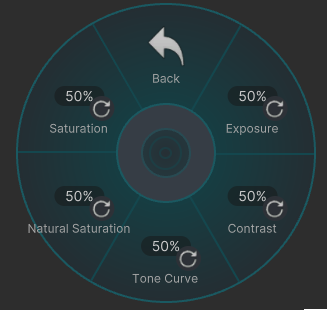
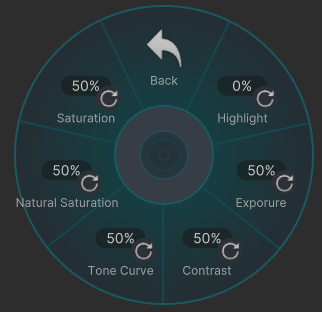
260715update

diff --git a/docs/menu/M.md b/docs/menu/M.md
@@ -42,19 +42,6 @@ FOVの設定範囲は **12mm ～ 1000mm** 相当です。
 
 ### 共通設定
 
-#### Color Correction
-各カメラで画像補正ができます。  
-![](images/Lens_CC.png)
-
-- **Exposure** : 露出
-- **Contrast** : コントラスト
-- **Tone Curve** : トーンカーブ
-- **Natural Saturation** : 自然な彩度
-- **Saturation** : 彩度
-
-<BR>
-
-
 #### AutoLevel
 
 ![](images/AutoLevel.png)
@@ -79,31 +66,6 @@ FOVの設定範囲は **12mm ～ 1000mm** 相当です。
 ---
 
 ### Fore
-
-#### LayerBlend
-前景の合成モードを選択できます。
-
-![](images/Lens_Fore_Layer.png)
-
-- **None** ：前景を描画しません
-- **Add** ：加算
-- **Dodge** ：覆い焼きカラー
-- **Normal** ：通常合成
-- **Screen** ：スクリーン
-- **Multiply** ：乗算
-
-- **Alpha** ：前景の透明度を変更できます
-
-##### 補足
-
-- **Normal以外** を選択した場合  
-メインカメラの Far は Fore カメラの Far と同じになります。
-- **Normal** 選択時は、透明度の変更はされません(100%固定)。
-- **Normal** 選択時は、  
-Depth がある部分では前景が通常合成されます。  
-Depth がない部分は Screen 合成として扱われます。
-
-<BR>
 
 #### clip Adjust
 
@@ -164,11 +126,23 @@ Back カメラの Far の位置を、手前側に微調整できます。
 ![](images/Lens_ForcusRange.png)
 
 フォーカス距離を、一定の距離から選択できます。  
-フォーカス範囲は **約 1.5m** になります。
+フォーカス範囲は **約 1.5m** になります。  
+選択後の細かい調整は [Focus](#focus)で合わせます。
 
-### AutoFocus
-VRC Raycastを使用して、カメラの中心部分にある **コライダー** にフォーカスを合わせます。  
-VRChatの仕様により、自身かワールドのコライダーにしか反応しません。
+### Auto Focus
 
-- AF_DoF では、AutoFocusのフォーカス範囲を調整できます。  
-  値を大きくするとピントの合う範囲が広くなります。
+![](images/Lens_AutoFocus.png)
+
+AutoFocusを選択すると、利き手と逆の手に**ピンク色の球**が表示されます。  
+AutoFocus中は、この球とカメラの距離がフォーカス距離となります。  
+  
+- **AutoFocus Range** で、AutoFocus中のフォーカス範囲を調整できます。  
+値を大きくするとピントの合う範囲が広くなります。
+- **Look at AF** で、カメラが常にピンク級の方を向きます。
+- **AutoFocus Drone** で、ピンク球をドローンのように  
+好きな場所に移動させれます。
+- **AutoFocus worldFix**で、好きな場所にピンク球を置いたり  
+手元に引き寄せたり出来ます。
+  
+動かし方はカメラのドローンとほぼ同じです。  
+回転機能はありません。

diff --git a/docs/menu/P.md b/docs/menu/P.md
@@ -65,12 +65,23 @@ ForeとBackのボケの強さを変更できます。
 ![](images/Lens_ForcusRange.png)
 
 フォーカス距離を、一定の距離から選択できます。  
-フォーカス範囲は **約 1.5m** になります。
+フォーカス範囲は **約 1.5m** になります。  
+選択後の細かい調整は [Focus](#focus)で合わせます。
 
-### AutoFocus
-VRC Raycastを使用して  
-カメラの中心部分にある **コライダー** にフォーカスを合わせます。  
-VRChatの仕様により、自身かワールドのコライダーにしか反応しません。
+### Auto Focus
 
-- AF_DoF では、AutoFocusのフォーカス範囲を調整できます。  
+![](images/Lens_AutoFocus.png)
+
+AutoFocusを選択すると、利き手と逆の手に**ピンク色の球**が表示されます。  
+AutoFocus中は、この球とカメラの距離がフォーカス距離となります。  
+  
+- **AutoFocus Range** で、AutoFocus中のフォーカス範囲を調整できます。  
 値を大きくするとピントの合う範囲が広くなります。
+- **Look at AF** で、カメラが常にピンク級の方を向きます。
+- **AutoFocus Drone** で、ピンク球をドローンのように  
+好きな場所に移動させれます。
+- **AutoFocus worldFix**で、好きな場所にピンク球を置いたり  
+手元に引き寄せたり出来ます。
+  
+動かし方はカメラのドローンとほぼ同じです。  
+回転機能はありません。

diff --git a/docs/menu/Effects.md b/docs/menu/Effects.md
@@ -1,0 +1,51 @@
+# Effects
+
+![](images/Effects.png)
+
+## Film Grain
+画面にフィルムグレイン効果を追加します。
+
+---
+
+## Color Correction
+各カメラで画像補正ができます。  
+![](images/Lens_CC.png)
+
+- **Highlight** : ハイライト部を明るくします(Mainにはありません)
+- **Exposure** : 露出コントロール
+- **Contrast** : コントラスト
+- **Tone Curve** : トーンカーブ
+- **Natural Saturation** : 自然な彩度
+- **Saturation** : 彩度
+
+
+
+
+---
+
+## LayerBlend[Fore]
+前景の合成モードを選択できます。
+
+![](images/Lens_Fore_Layer.png)
+
+- **None** ：前景を描画しません
+- **Add** ：加算
+- **Dodge** ：覆い焼きカラー
+- **Normal** ：通常合成
+- **Screen** ：スクリーン
+- **Multiply** ：乗算
+
+- **Alpha** ：前景の透明度を変更できます
+
+- **Far Clipping** ：前景カメラのFarをSkyBoxまで写せます。
+
+##### 補足
+
+- **Normal以外** を選択した場合  
+メインカメラの Near は Fore カメラの Near と同じになります。
+- **Normal** 選択時は、透明度の変更はされません(100%固定)。
+- **Normal** 選択時は、  
+Depth がある部分では前景が通常合成されます。  
+Depth がない部分は Screen 合成として扱われます。
+
+<BR>

diff --git a/docs/menu/Drone.md b/docs/menu/Drone.md
@@ -1,6 +1,6 @@
 # Drone
 
-![](images/Drone.jpg)
+![](images/Drone.png)
 
 カメラをドローンのように操作して移動させる機能です。
 
@@ -35,6 +35,18 @@
 
 メインカメラの FOV を調整できます。  
 **[Sync]** が ON の場合は、他のカメラの FOV にも同期されます。
+
+---
+
+## Focus
+
+ピントを合わせる距離(フォーカス距離)と、ピントが合う範囲(フォーカス範囲)を  
+キーを入力する方向で調整できます。
+
+- **↑** / Farther：フォーカス距離を奥へ移動
+- **↓** / Closer ：フォーカス距離を手前へ移動
+- **←** / Widen：フォーカス範囲を広げる
+- **→** / Narrow：フォーカス範囲を狭くする
 
 ---
 

diff --git a/docs/menu/menu.md b/docs/menu/menu.md
@@ -17,12 +17,11 @@ TelePortraitLensを起動します
 [Manual]  
 Fore / Main / Back それぞれの設定を細かく調整するための詳細メニューです。
 
-
 ## Drone Behavior
 ドローン移動や、カメラ向きの固定に関する設定を行えます。
 
-## WorldFix
-カメラを空中に固定できます。
+## Effects
+画面効果を選択できます。
 
 ## Setting
 カメラの持ち位置やグリッドなどの設定ができます。

diff --git a/docs/history.md b/docs/history.md
@@ -1,4 +1,9 @@
 # History
 
+### 26/06/27
+    - AutoFocus機能を更新
+    - メニュー位置調整
+    - Effects機能追加
+    - 左手版バグ修正(報告ありがとうございました)
 ### 26/05/20
     - 販売開始
